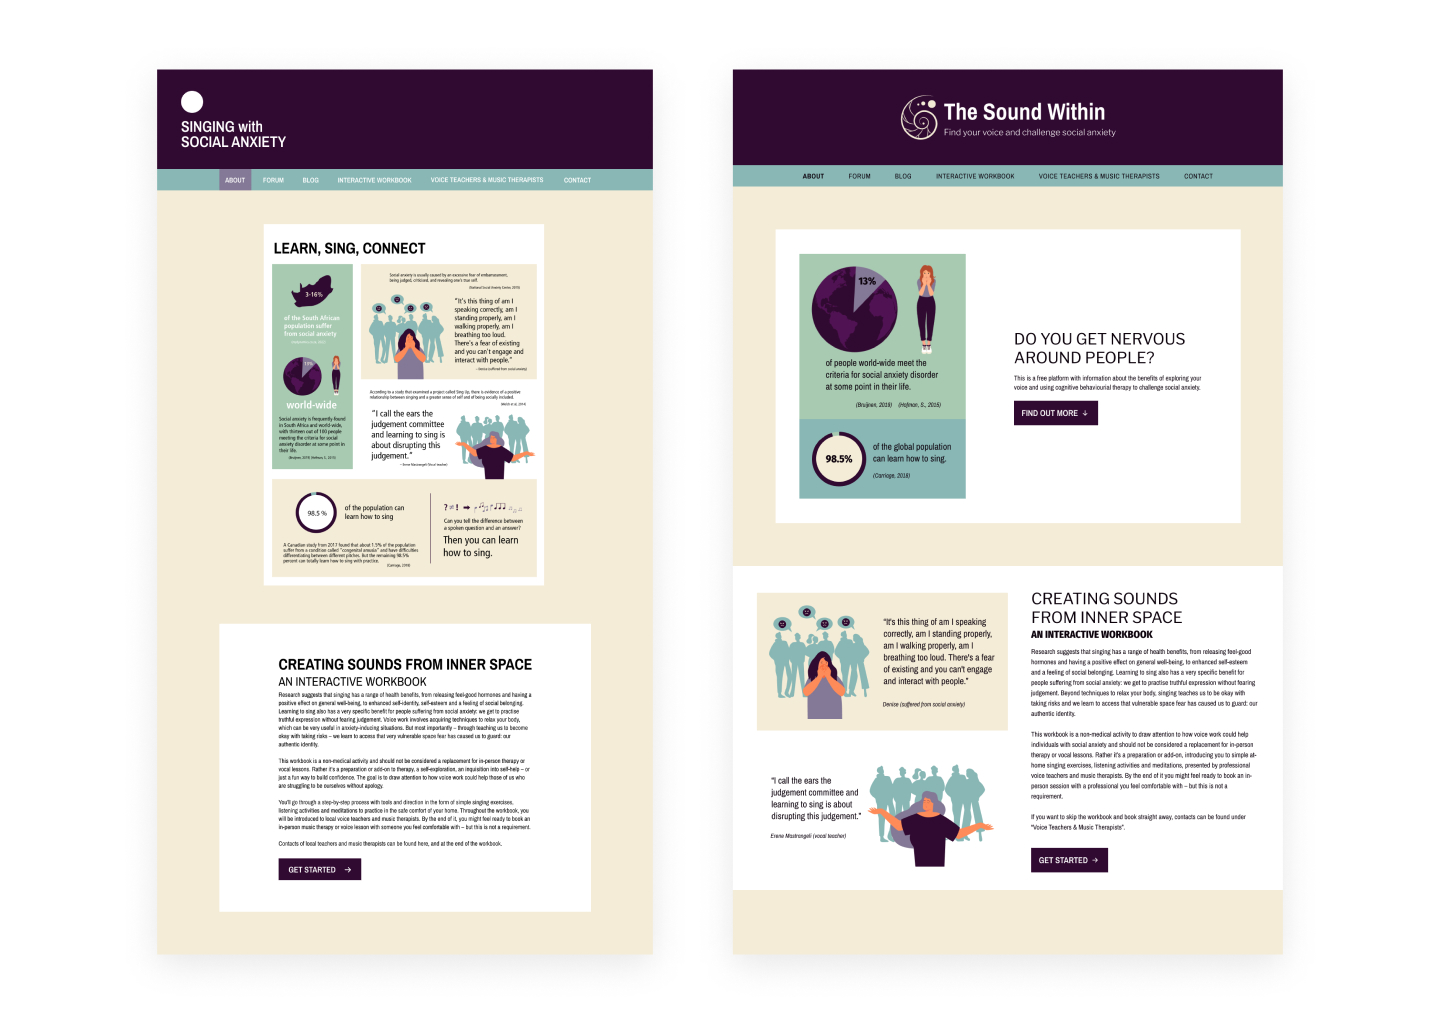
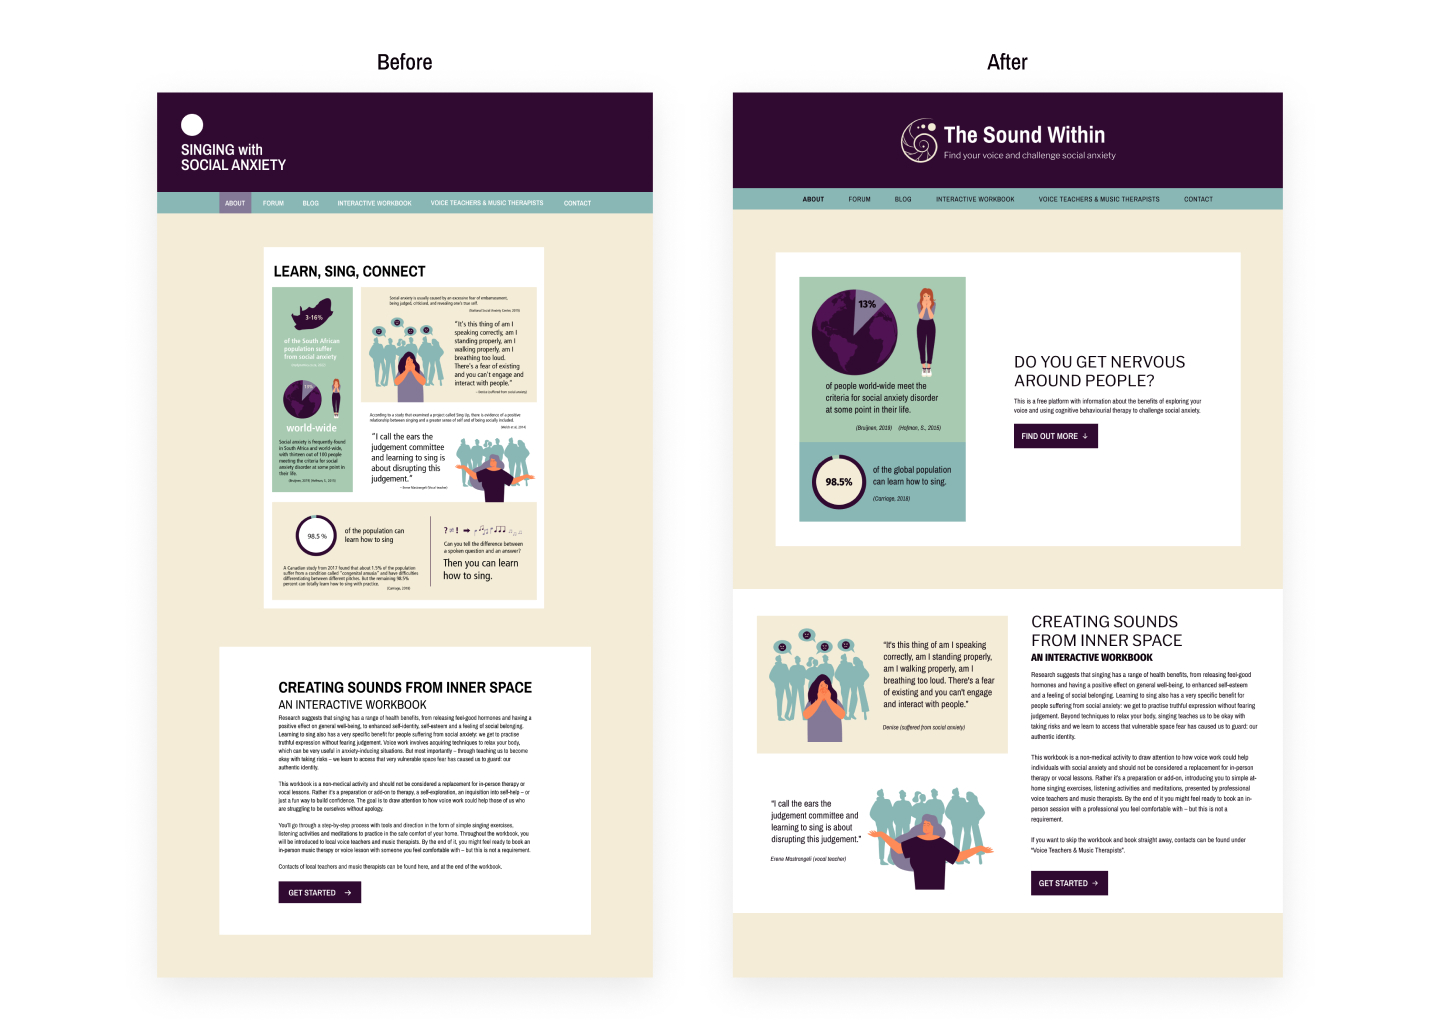
Case study updates
Updating case study with additional work and minor edits.

Changed region(s): [[0.5, 0.0312, 0.9062, 0.9688], [0.0938, 0.0312, 0.4688, 0.9688]]

diff --git a/mental-health-lx.html b/mental-health-lx.html
@@ -89,10 +89,11 @@
   <div class="mx-auto py-5 g-lg-5 px-lg-5 mt-lg-5 row px-3">
     <div class="col-lg-6 p-lg-4">
       <h2>ROLE AND SCOPE</h2>
-      This was an individual project spanning from February to November 2022, completed in my own time alongside the
+      This was an individual student project spanning from February to November 2022, completed in my own time alongside the
       full-time user-centred design programme.
       Based on rigorous UX research, ideation processes and user testing, the end result was a high-fidelity interactive
-      prototype designed through an iterative process.
+      prototype designed through an iterative process. After submitting the project, 
+      I revisited the design and worked on some improvements in 2023.
       <br><br>
     </div>
     <div class="col-lg-4 offset-lg-2 my-auto p-lg-4">
@@ -112,7 +113,7 @@
       <br><br><small><i>Source: Rescue Remedy, 2022</i></small>
     </div>
     <div class="col-lg-6 p-lg-5 p-4 my-auto text-start">
-      <h2>FIRSTLY, WHAT IS SOCIAL ANXIETY?</h2>
+      <h2>WHAT IS SOCIAL ANXIETY?</h2>
       Contrary to many people’s first impression, it is not simply shyness, introversion or a choice not to interact.
       It is a debilitating mental disorder characterised by an excessive fear of judgement that results in a masking of
       one’s true self to others. According to the US-based National Social Anxiety Center,
@@ -155,7 +156,8 @@
     <br><br>
     Although some human contact is important, studies have found that self-help for social anxiety is successful – at
     the very least it’s better than not receiving any help at all. For instance, a paper by Miloff et al. exploring
-    design considerations for <i>The Challenger App</i> mentions how learning about tools and coping strategies on your
+    design considerations for <a class="links fw-bold"
+    href="https://www.sciencedirect.com/science/article/pii/S2214782915300014" target="_blank"><i>The Challenger App</i></a> mentions how learning about tools and coping strategies on your
     own and engaging in self-administered exposures has been found to reduce social anxiety.
     <br><br>
     <h2>GETTING HELP</h2>
@@ -642,7 +644,7 @@
       <li>Follow the journey you’re most interested in.</li>
       <li>[When they get to the last screen] What would you want to do next?</li>
     </ol>
-    Most of the participants understood what the site was about after just looking at it for a few seconds, although for
+    Most of the participants understood what the site was about after just looking at it for a few seconds, although to
     one participant it wasn’t immediately clear that it was about singing specifically. Connecting art or music teachers
     to students was mentioned, and – after asking a follow-up question – I realised this was because of the navigation
     label, ‘Teachers & Music Therapists’. I changed it to ‘Voice Teachers & Music Therapists’ to make it more specific.
@@ -656,7 +658,7 @@
 
   <div class="container-fluid col-lg-6 mx-auto px-4 px-lg-0">
     <h2>ACCESSIBILITY</h2>
-    Since the initial sprint was focused on coming up with an idea, and demonstrating how it would be used, some of the
+    Since the initial sprint completed as part of my studies was focused on coming up with an idea and demonstrating how it would be used, some of the
     finer, but nonetheless important details were neglected. When evaluating the initial design, I realised there were
     some crucial accessibility fixes that had to be done.
     Using the A11y - Color Contrast Checker Figma plugin, I made sure each page has efficient contrast (at least 4.5:1,
@@ -685,11 +687,12 @@
     enhanced the purpose of the platform.
     With the help of Tim Brown’s modular scale, I defined a new type scale for web and mobile. Since the platform
     contains text-based learning content,
-    paragraph lines had to be an appropriate length for long-form reading. According to <a class="links fw-bold"
+    paragraph lines had to be an appropriate length for long-form reading. According to <a class="links fw-bold" target="_blank"
       href="https://pimpmytype.com/line-length-line-height/">an article</a> by pimpmytype.com, a line length of 60 to 80
     characters
-    is close to what we are used to from reading books. I had now also decided on a name for the platform, "The Sound
-    Within", and had designed a logo.
+    is close to what we are used to from reading books. I also decided on a name for the platform, "The Sound
+    Within", and designed a logo. Initially I had just used "Singing with Social Anxiety"
+    because time constraints didn’t allow for an in-depth naming process.
     <br><br>
   </div>
   <div class="col-lg-10 mx-auto">
@@ -701,7 +704,7 @@
     <br><br>
     <h2>HOMEPAGE REDESIGN</h2>
     After taking a healthy break from the project, I also realised that the homepage needed to be re-designed.
-    Previously, an infographic I had to design as part of my studies, was the first thing that users saw on the
+    Previously, an infographic I had to design as part of my studies was the first thing that users saw on the
     homepage, and when they scrolled down they were able to read a detailed explanation of the workbook.
     I could see now that the inclusion of the infographic was influenced by a subjective bias – it was part of a student
     brief, and because I had put work into trying to fulfil this obligation, I felt like it had to be there.
@@ -728,18 +731,17 @@
     to gather empowering information and engage with relevant preparatory exercises to practise at home. At the end,
     they are prompted to imagine they are participating in a voice session and apply their learned knowledge through an
     interactive branching scenario.
-  </div>
-  <br>
-  <div class="container-fluid text-center">
-    <video class="w-50" autoplay loop>
+    <br><br>
+    <video class="w-100" autoplay loop>
       <source src="video/the-sound-within-workbook.mp4" type=video/mp4>
-    </video>
+    </video><br><br>
+    <div class="text-center"><small class="text-center"><i>A step-by-step process with preparatory exercises</i></small></div>
   </div>
   <br><br>
   <div class="container-fluid col-lg-6 mx-auto px-4 px-lg-0">
     <h2>SELECTING A VOICE TEACHER OR MUSIC THERAPIST</h2>
     When ready, learners can look through a directory of local professionals and select one they feel comfortable with.
-    Some of them they might already know through the exercise videos in the workbook.
+    They might already know some of them through the exercise videos in the workbook.
   </div>
   <br>
   <div class="col-lg-10 mx-auto">
@@ -750,10 +752,12 @@
   <br><br>
   <div class="container-fluid col-lg-6 mx-auto px-4 px-lg-0">
     <h2>BOOKING SYSTEM</h2>
-    An essential component of the user journey was the booking system.
-    The idea, after all, was that once the user is sufficiently prepared, they would be ready to book an in-person voice
+    An essential component of the user journey is the booking system.
+    The idea, after all, is that once the learner is sufficiently prepared, they would be ready to book an in-person voice
     or music therapy session with a professional. How this booking would happen through the site had not been fleshed
-    out yet. So I decided to look at case studies and user flows for online booking forms, as well as best practices,
+    out yet, so I decided to look at <a class="links fw-bold" target="_blank"
+    href="https://bootcamp.uxdesign.cc/when-user-centered-design-also-leads-to-business-process-optimization-db9105c4289d">case studies</a> and user flows for online booking forms, as well as <a class="links fw-bold" target="_blank"
+    href="https://uxdesign.cc/best-practices-for-form-design-ff5de6ca8e5f">best practices</a>,
     and defined a list of criteria the system should adhere to:
     <ul>
       <li>Simple booking form with minimal required fields, in this case
@@ -765,33 +769,32 @@
       </li>
       <li>To avoid interruption of the flow, let the user book an appointment first, and then ask only for the
         absolutely necessary details</li>
-      <li>Multiple steps on separate pages and clearly marked</li>
-      <li>Consider radio buttons instead of dropdown for less than 6 items (easier to see all that’s available and
+      <li>Multiple steps on separate pages are clearly marked</li>
+      <li>Consider radio buttons instead of dropdowns for less than 6 items (easier to see all that’s available and
         decreases interaction time)</li>
       <li>Explain why you’re asking for sensitive information (such as phone number)</li>
       <li>The user should be able to see what they are paying for at one glance, and have the option to change it</li>
     </ul>
-    Since the user will enter the booking process through selecting a professional, the professional’s name, type of
+    Since learners will enter the booking process through selecting a professional, the professional’s name, type of
     session (voice or music therapy), city and travel distance from the user’s current location will be pre-selected on
-    the first page of the booking process, with an option to change it. This way the user can clearly see what they are
-    paying for, and can proceed if they are happy. On the second page, they can select a date, and quickly see what time
+    the first page of the booking process, with an option to change it. This way they can clearly see what they are
+    paying for, and can proceed if happy. On the second page, they can select a date, and quickly see what time
     slots are available. Once they select the slot, they are asked to enter their information (name & surname, email and
     phone number) and finally they can pay using a variety of different payment options.
-  </div>
-  <br>
-  <div class="container-fluid text-center">
-    <video class="w-50" autoplay loop>
+    <br><br>
+    <video class="w-100" autoplay loop>
       <source src="video/the-sound-within-booking-system.mp4" type=video/mp4>
-    </video>
+    </video><br><br>
+    <div class="text-center"><small class="text-center"><i>A preliminary booking system to be tested</i></small></div>
+  </div>
   </div>
   <br><br>
   <div class="container-fluid col-lg-6 mx-auto px-4 px-lg-0">
     <h2>VIDEO EXAMPLES</h2>
     Exercise videos presented by local voice teachers and professionals had already been part of the initial concept,
     but after some thought into scalability, I realised this idea had to be defined more clearly. The videos in the
-    workbook will be specific, audience-tailored presentations of relevant exercises, and therefore will be a more
-    permanent element of the workbook. These would likely be contributions by early members, who would therefore have
-    increased exposure throughout the platform.
+    workbook will be specific, audience-tailored presentations of relevant exercises, and therefore a more
+    permanent element of the workbook. These would likely be contributions by early members, increasing their exposure throughout the platform. To show how this would work, I have included existing YouTube videos with relevant content for now. When the platform goes live, similar videos would have to be created with local professionals.
     <br><br>
     <img src="images/the-sound-within-video-lesson.png" class="w-100 responsive-image" /><br><br>
     <div class="text-center"><small class="text-center"><i>A video lesson integrated into the workbook
@@ -805,17 +808,12 @@
     potential students some insight into how a session might be conducted, paying for this extra option would be
     desirable. Below is an example of what the sample lesson video slider might look like, using screenshots from
     existing YouTube videos of voice lessons.
-  </div>
-  </div>
-  <br>
-  <div class="container-fluid text-center">
-    <video class="w-50" autoplay loop>
+    <br><br>
+    <video class="w-100" autoplay loop>
       <source src="video/the-sound-within-video-slider.mp4" type=video/mp4>
-    </video>
-  </div>
-  <br><br>
-
-  <div class="container-fluid col-lg-6 mx-auto px-4 px-lg-0">
+    </video><br><br>
+    <div class="text-center"><small class="text-center"><i>Learners will be able to watch a sample session</i></small></div>
+    <br><br>
 
     <h2>THE FORUM AND BLOG</h2>
     The purpose of the blog and the forum pages are to create a safe space for individuals with social anxiety to feel
@@ -838,13 +836,13 @@
     on a mobile device.
     <br><br>
   </div>
-  <div class="container-fluid text-center">
+    <div class="container-fluid text-center">
     <video class="w-75" autoplay loop>
       <source src="video/the-sound-within-responsive.mp4" type=video/mp4>
-    </video>
-  </div>
+    </video><br><br>
+    <div class="text-center"><small class="text-center"><i>The platform's design needs to be responsive</i></small></div>
+    </div> 
   <br><br>
-
   <div class="container-fluid col-lg-6 mx-auto px-4 px-lg-0">
     <h2>NEXT STEPS</h2>
     I would like to get further feedback on the learner journey from voice teachers, but also from people who suffer
@@ -852,19 +850,25 @@
     the opportunity to do this in their own time, and ask them some questions afterwards. The main objective would be to
     see how learners feel after they have engaged with the content more in-depth.
     <br><br>
-    I also plan to reach out to more voice teachers and music therapists to see if they would be interested in
-    submitting exercises, and look into producing quality videos with decent audio.
+    The booking process would benefit from some usability testing, and interviews with voice teachers and music therapists, as well as potential users, would be helpful to further determine what information is relevant before booking a session.
+    <br><br>
+    Before launching the platform, I am going to focus on community-building through sharing my own experience in a blog with the working title, "Finding the sound within". 
     <br><br>
     Lastly, I intend to use my web development skills to code the front end of the platform.
     <br><br>
+    <h2>TAKEAWAYS</h2>
+    One of the most important things I learned through working on this project, especially through observing and participating in voice lessons myself, is that how you teach is incredibly important.
+    When it comes to working with individuals who suffer from social anxiety, it is essential to use non-evaluative teaching methods, and a pedagogical style that is sensitive to the characteristics of social anxiety disorder. It's therefore necessary to implement a process to ensure that the professionals on this platform work within this framework.
+    <br><br>
+
     <h2>THE VALUE PROPOSITION</h2>
     Combining the need for access to therapy, a need for an inclusive social anxiety platform, and a need to expand the
-    customer base for voice teachers, a singing for social anxiety platform could be a constructive way of dealing with
+    customer base for voice teachers, this platform could be a constructive way of dealing with
     a societal problem as well as an economic problem without exploitation. Although a percentage will be taken, voice
     teachers don’t have much to lose because they only pay once a booking is actually made, and site visitors will
-    receive useful information, even if they don’t book a lesson.
+    receive useful information, even if they don’t book a lesson. 
     <br><br>
-    Not only will it connect voice teachers to beginner singers interested in voice work’s therapeutic value, but it
+    Not only will it connect voice teachers to a new audience, but it
     will also introduce a relatively unexplored concept to the wider public. The specific benefits of singing to
     overcome social anxiety often make sense to people, but have not been researched in-depth – available studies are
     often focused on passive music therapy for general anxiety disorders and depression.

diff --git a/designing-a-health-app.html b/designing-a-health-app.html
@@ -596,7 +596,7 @@
     Because the calendar symbol makes more sense as a line icon, I used line icons throughout, except for the heart rate
     symbol on the homepage.
     Here I decided to use a filled icon because it made the red colour stand out more.
-    I also created wider buttons, ensuring they are at least 10mm high to accommodate for average finger sizes, and –
+    I also made the buttons larger, and –
     based on <a class="links fw-bold" href="https://www.nngroup.com/articles/icon-usability/" target="_blank">research
       by NNGroup</a> – I included instructive text as well as icons.
     <br><br>
@@ -614,6 +614,7 @@
     To avoid further distraction, it was important to use more neutral colours here because users would have the option
     to assign a colour-coded category to each task.
     </div>
+    <br><br>
     <div class="container-fluid text-center">
       <video class="w-75" autoplay loop>
         <source src="video/habbit-dashboard.mp4" type=video/mp4></video>
